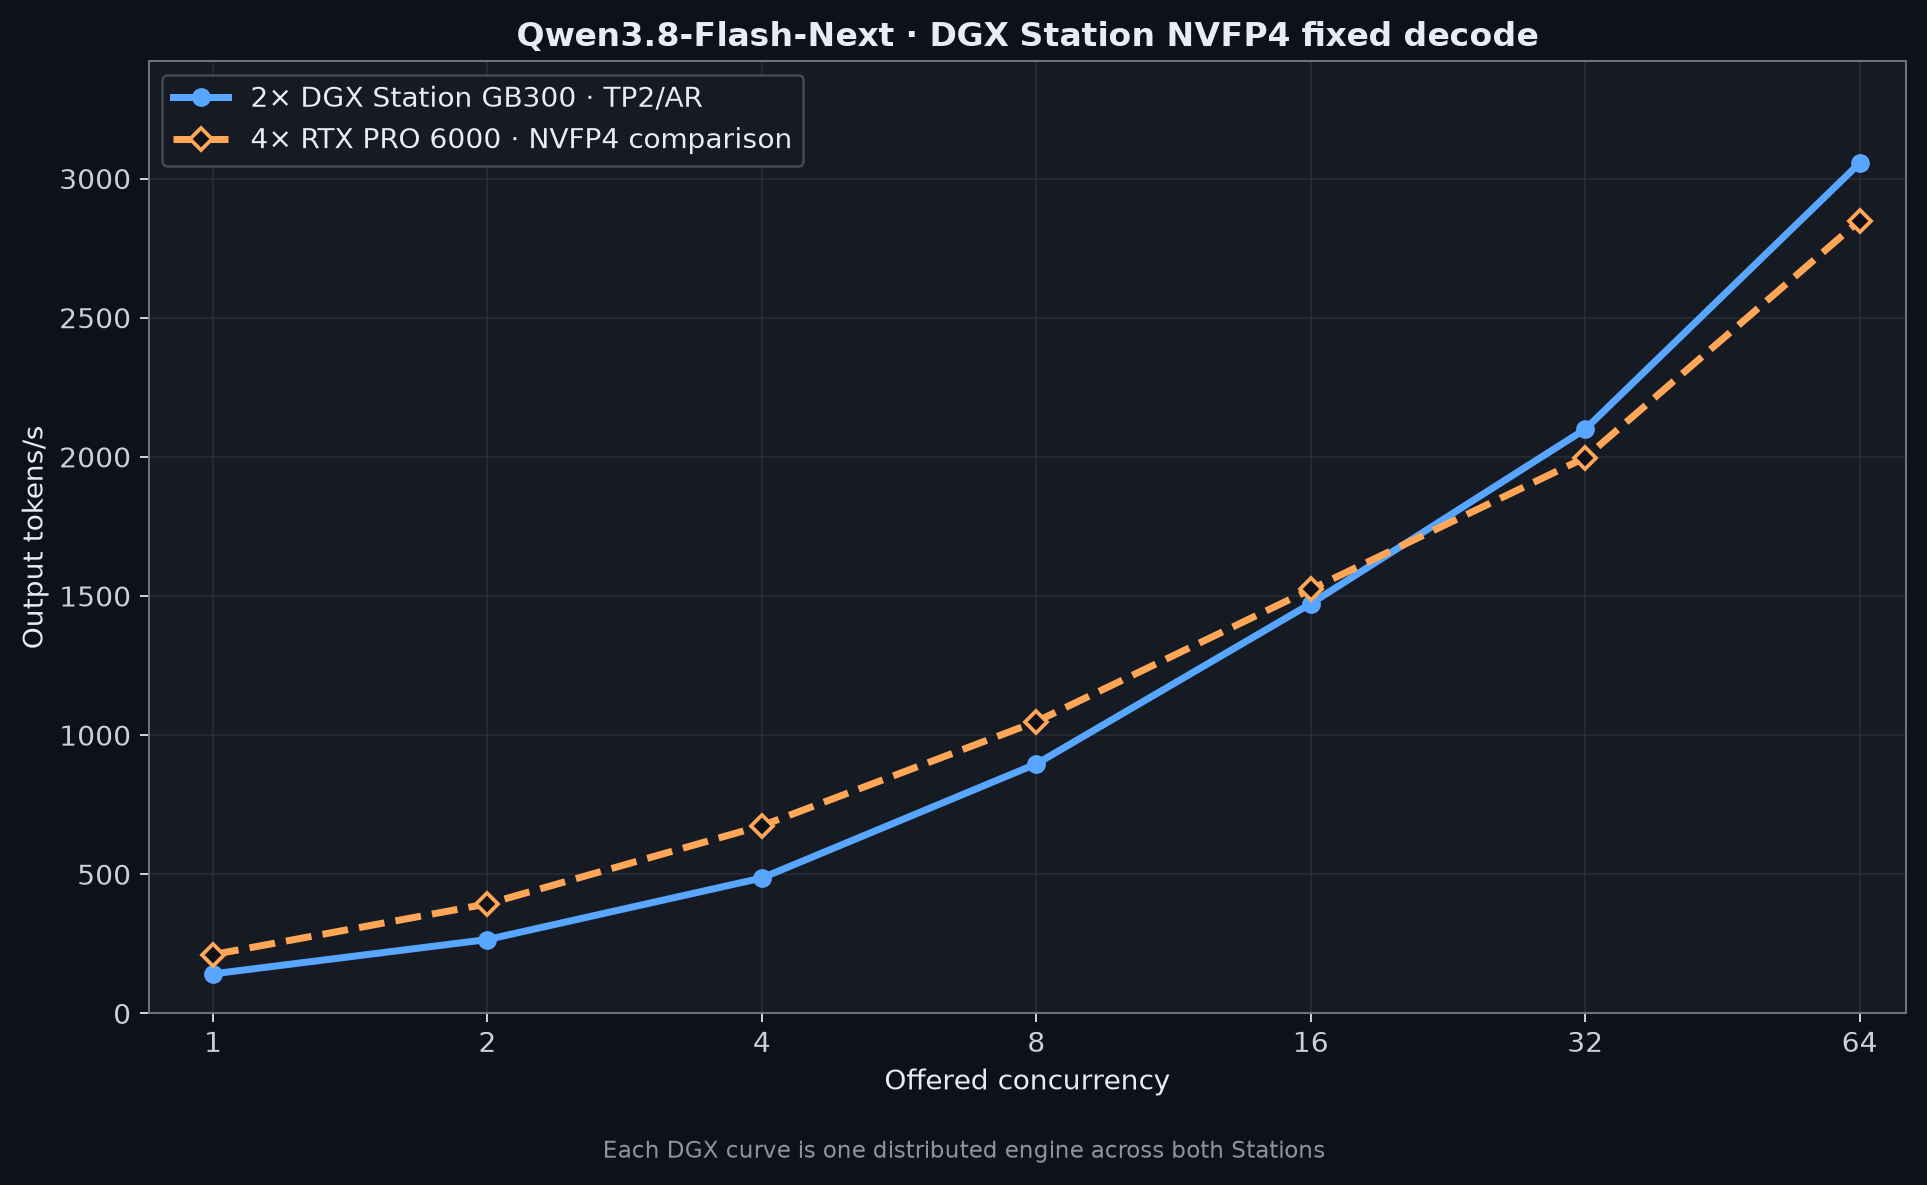
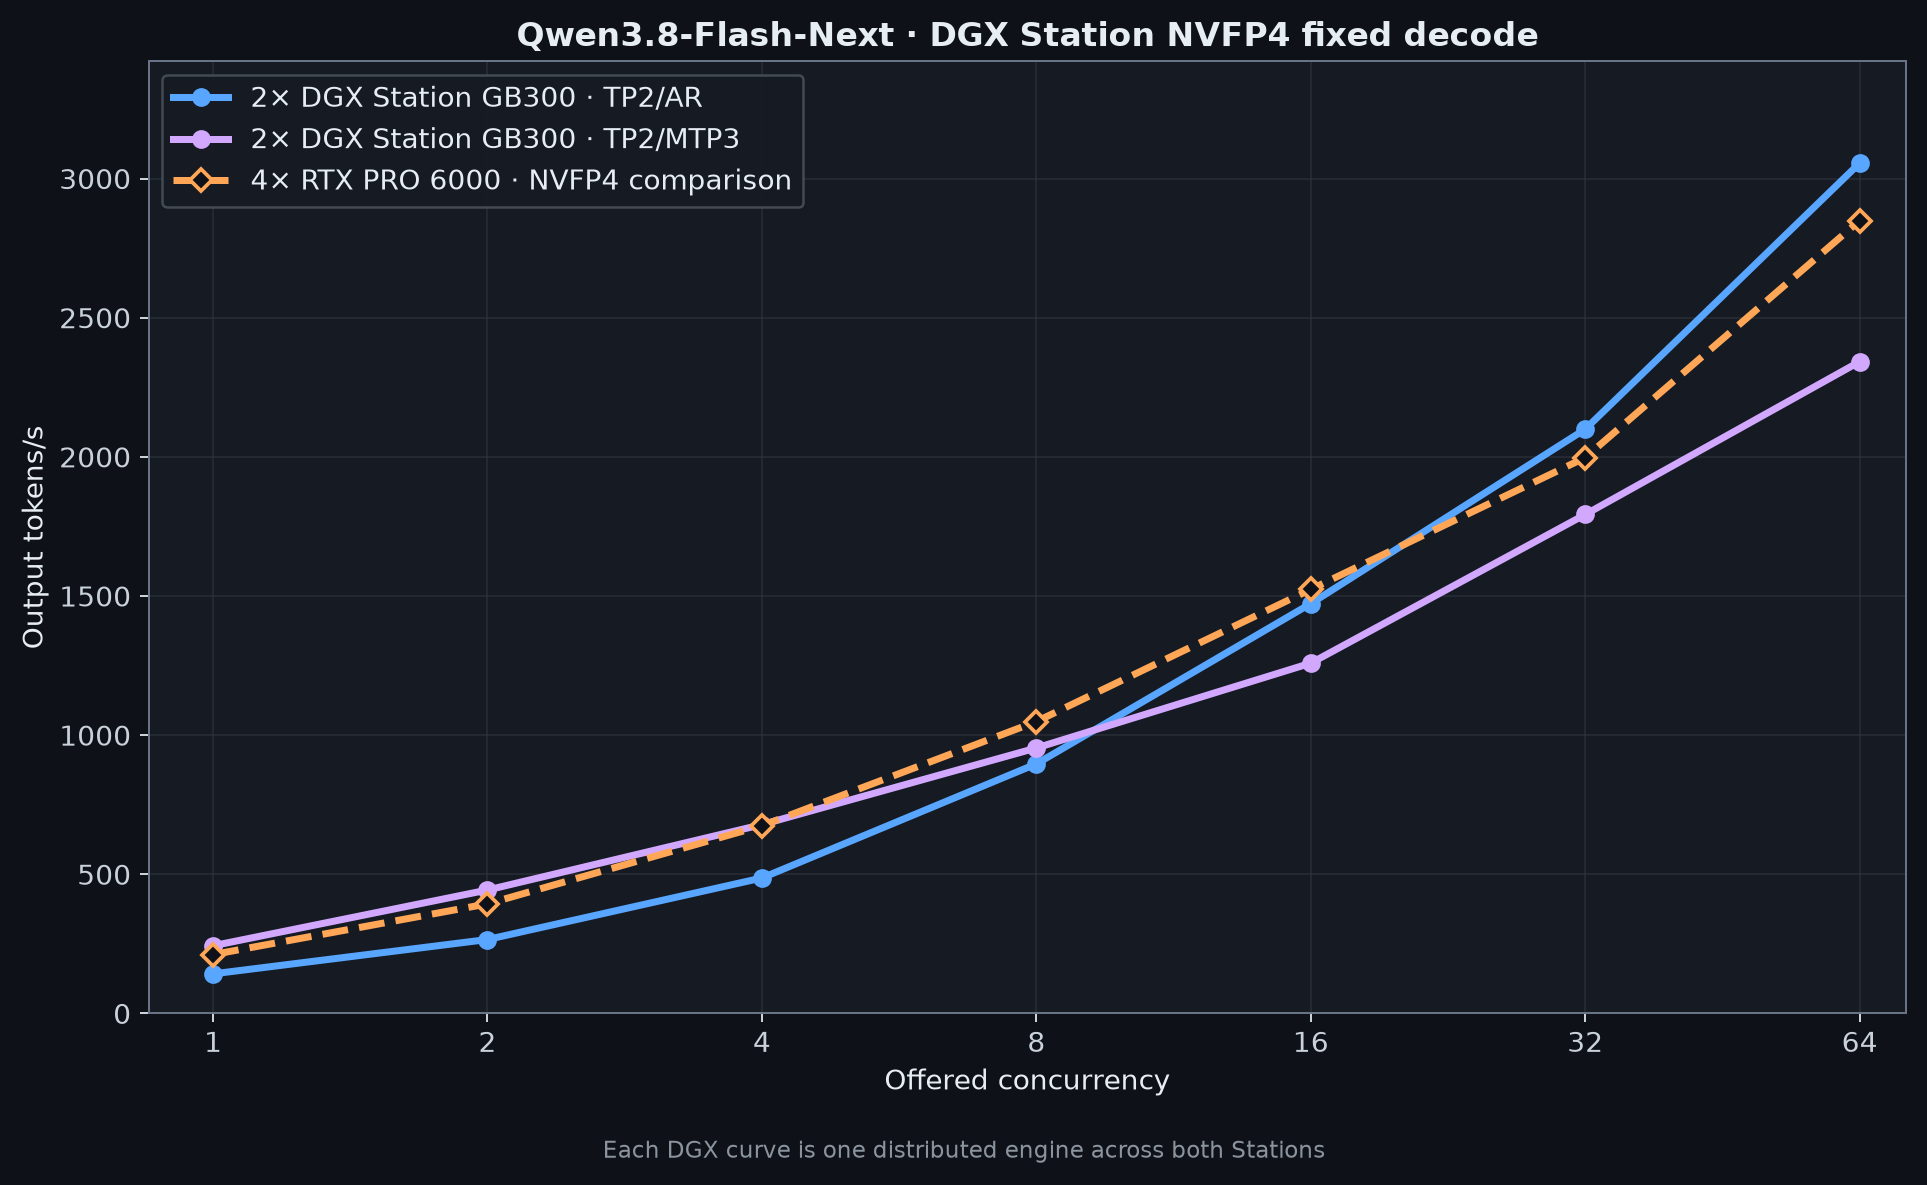
Add Qwen3.8 Flash Next TP2 MTP3 results

diff --git a/qwen3.8-flash-next/tests/test_section_contract.py b/qwen3.8-flash-next/tests/test_section_contract.py
@@ -384,28 +384,38 @@ class SectionContractTests(unittest.TestCase):
         self.assertNotIn("sealed", headline.lower())
 
         dgx_rows = csv_rows("dgx-overlays.csv")
+        profile_labels = {
+            "NVFP4 TP2/MTP0": "TP2/AR",
+            "NVFP4 TP2/MTP3": "TP2/MTP3",
+        }
         dgx_decode = {
-            int(row["concurrency"]): Decimal(row["throughput"])
+            (row["profile"], int(row["concurrency"])): Decimal(row["throughput"])
             for row in dgx_rows
-            if row["profile"] == "NVFP4 TP2/MTP0" and row["metric"] == "decode"
+            if row["profile"] in profile_labels and row["metric"] == "decode"
         }
         dgx_prefill = {
-            int(row["nominal_context_tokens"]): Decimal(row["throughput"])
+            (row["profile"], int(row["nominal_context_tokens"])): Decimal(
+                row["throughput"]
+            )
             for row in dgx_rows
-            if row["profile"] == "NVFP4 TP2/MTP0" and row["metric"] == "prefill"
+            if row["profile"] in profile_labels and row["metric"] == "prefill"
         }
         dgx_table = table_after_heading(section, "## DGX Station results")
-        self.assertEqual(len(dgx_table), 1)
-        self.assertEqual(dgx_table[0][0], "TP2/AR")
-        self.assertEqual(
-            [unstyle_number(cell).removesuffix(" tok/s") for cell in dgx_table[0][1:]],
-            [
-                f"{dgx_decode[1]:,.1f}",
-                f"{dgx_decode[16]:,.1f}",
-                f"{dgx_decode[64]:,.1f}",
-                f"{dgx_prefill[65536]:,.0f}",
-            ],
-        )
+        self.assertEqual(len(dgx_table), len(profile_labels))
+        for cells, (profile, label) in zip(dgx_table, profile_labels.items()):
+            self.assertEqual(cells[0], label)
+            self.assertEqual(
+                [
+                    unstyle_number(cell).removesuffix(" tok/s")
+                    for cell in cells[1:]
+                ],
+                [
+                    f"{dgx_decode[(profile, 1)]:,.1f}",
+                    f"{dgx_decode[(profile, 16)]:,.1f}",
+                    f"{dgx_decode[(profile, 64)]:,.1f}",
+                    f"{dgx_prefill[(profile, 65536)]:,.0f}",
+                ],
+            )
 
         decode_table = table_after_heading(recipe, "### Workstation decode throughput")
         self.assertEqual(len(decode_table), len(CONCURRENCIES))
@@ -439,7 +449,7 @@ class SectionContractTests(unittest.TestCase):
         )
         self.assertIn("(qwen3.8-flash-next/)", overview_row)
         self.assertIn(
-            "TP2/AR: 142.4 tok/s C1; 3,055.9 C64",
+            "TP2: MTP3 243.5 tok/s C1; AR 3,055.9 C64",
             overview_row,
         )
 

diff --git a/README.md b/README.md
@@ -19,7 +19,7 @@ performance tuning, runtime quirks, benchmarking practice, and safe recovery.
 
 | Experiment | Checkpoint / precision | Headline result |
 | --- | --- | --- |
-| [Qwen3.8-Flash-Next](qwen3.8-flash-next/) | local-inference-lab NVFP4-4p89/SGLang on 2× DGX Station GB300; 4× RTX PRO 6000 comparison | TP2/AR: 142.4 tok/s C1; 3,055.9 C64 |
+| [Qwen3.8-Flash-Next](qwen3.8-flash-next/) | local-inference-lab NVFP4-4p89/SGLang on 2× DGX Station GB300; 4× RTX PRO 6000 comparison | TP2: MTP3 243.5 tok/s C1; AR 3,055.9 C64 |
 | [Qwen3.8-27B](qwen3.8-27b/) | BF16 plus unofficial Huginn FP8 and NVFP4A16 targets; BF16 KV/Mamba state | DFlash2: 265.8 tok/s C1; MTP: 6,348.8 C128. Quant AR C128: FP8 5,494.4 (+8.7% vs BF16), NVFP4A16 3,607.4 (−28.6%) |
 | [Qwen2.5-72B LoRA FSDP training](qwen72b-lora-fsdp/) | BF16 LoRA SFT; FSDP2 over 2× GB300; packed UltraChat 10K at 2,048 tokens | 4,453.19 tokens/s; 29.433 s/optimizer step; global batch 131,072 tokens |
 | [RF-DETR Large training](rfdetr-training/) | BF16 fine-tuning on the 1.17M-image MLPerf OpenImages subset; 2× GB300 DDP | Optimized global-batch-128 epoch: 220.45 images/s and 1:46:52 end to end (2.44× faster than control) |

diff --git a/qwen3.8-flash-next/README.md b/qwen3.8-flash-next/README.md
@@ -11,7 +11,8 @@ on SGLang. This is one distributed engine across both Stations using TP2.
 
 | DGX profile | C1 decode | C16 decode | C64 decode | 64K cold prefill |
 | --- | ---: | ---: | ---: | ---: |
-| TP2/AR | 142.4 tok/s | 1,473.0 tok/s | **3,055.9 tok/s** | **24,437 tok/s** |
+| TP2/AR | 142.4 tok/s | **1,473.0 tok/s** | **3,055.9 tok/s** | **24,437 tok/s** |
+| TP2/MTP3 | **243.5 tok/s** | 1,258.9 tok/s | 2,342.4 tok/s | 24,363 tok/s |
 
 ![DGX Station and 4× RTX PRO 6000 NVFP4 decode throughput](charts/dgx-nvfp4-decode.png)
 
